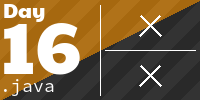
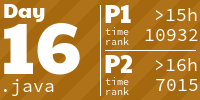
day 20

diff --git a/AoCTiles/.aoc_tiles_cache/leaderboard2022.html b/AoCTiles/.aoc_tiles_cache/leaderboard2022.html
@@ -88,15 +88,22 @@ If you'd like to hang out, I'm @ericwastl on Twitter.
 
 -->
 <body>
-<header><div><h1 class="title-global"><a href="/">Advent of Code</a></h1><nav><ul><li><a href="/2022/about">[About]</a></li><li><a href="/2022/events">[Events]</a></li><li><a href="https://teespring.com/stores/advent-of-code" target="_blank">[Shop]</a></li><li><a href="/2022/settings">[Settings]</a></li><li><a href="/2022/auth/logout">[Log Out]</a></li></ul></nav><div class="user">slawekgrzegorzewski <span class="star-count">28*</span></div></div><div><h1 class="title-event">&nbsp;<span class="title-event-wrap">{&apos;year&apos;:</span><a href="/2022">2022</a><span class="title-event-wrap">}</span></h1><nav><ul><li><a href="/2022">[Calendar]</a></li><li><a href="/2022/support">[AoC++]</a></li><li><a href="/2022/sponsors">[Sponsors]</a></li><li><a href="/2022/leaderboard">[Leaderboard]</a></li><li><a href="/2022/stats">[Stats]</a></li></ul></nav></div></header>
+<header><div><h1 class="title-global"><a href="/">Advent of Code</a></h1><nav><ul><li><a href="/2022/about">[About]</a></li><li><a href="/2022/events">[Events]</a></li><li><a href="https://teespring.com/stores/advent-of-code" target="_blank">[Shop]</a></li><li><a href="/2022/settings">[Settings]</a></li><li><a href="/2022/auth/logout">[Log Out]</a></li></ul></nav><div class="user">slawekgrzegorzewski <span class="star-count">42*</span></div></div><div><h1 class="title-event">&nbsp;<span class="title-event-wrap">{&apos;year&apos;:</span><a href="/2022">2022</a><span class="title-event-wrap">}</span></h1><nav><ul><li><a href="/2022">[Calendar]</a></li><li><a href="/2022/support">[AoC++]</a></li><li><a href="/2022/sponsors">[Sponsors]</a></li><li><a href="/2022/leaderboard">[Leaderboard]</a></li><li><a href="/2022/stats">[Stats]</a></li></ul></nav></div></header>
 
 <div id="sidebar">
-<div id="sponsor"><div class="quiet">Our <a href="/2022/sponsors">sponsors</a> help make Advent of Code possible:</div><div class="sponsor"><a href="https://careers.bankofamerica.com/" target="_blank" onclick="if(ga)ga('send','event','sponsor','sidebar',this.href);" rel="noopener">Bank of America</a> - We use technology, models and data to make financial lives better for our clients and communities.</div></div>
+<div id="sponsor"><div class="quiet">Our <a href="/2022/sponsors">sponsors</a> help make Advent of Code possible:</div><div class="sponsor"><a href="https://www.bjss.com/" target="_blank" onclick="if(ga)ga('send','event','sponsor','sidebar',this.href);" rel="noopener">BJSS</a> - Our people are a team of problem solvers, experienced in evolving technologies and delivering world-class technology solutions.</div></div>
 </div><!--/sidebar-->
 
 <main>
 <article><p>These are your personal leaderboard statistics.  <em>Rank</em> is your position on that leaderboard: 1 means you were the first person to get that star, 2 means the second, 100 means the 100th, etc.  <em>Score</em> is the number of points you got for that rank: 100 for 1st, 99 for 2nd, ..., 1 for 100th, and 0 otherwise.</p><pre>      <span class="leaderboard-daydesc-first">--------Part 1--------</span>   <span class="leaderboard-daydesc-both">--------Part 2--------</span>
 Day   <span class="leaderboard-daydesc-first">    Time   Rank  Score</span>   <span class="leaderboard-daydesc-both">    Time   Rank  Score</span>
+ 21   00:39:55   3455      0   01:07:47   2079      0
+ 20       &gt;24h  14775      0       &gt;24h  14027      0
+ 19   08:42:59   4324      0       &gt;24h   8226      0
+ 18   03:54:18   7512      0   06:01:21   6769      0
+ 17   01:58:36   2914      0   03:49:49   2295      0
+ 16   15:20:48  10932      0   16:47:02   7015      0
+ 15   01:07:59   4561      0   02:40:43   4343      0
  14   00:55:39   4213      0   01:29:05   5220      0
  13   01:14:10   5020      0   01:23:55   4578      0
  12   01:15:26   5219      0   01:40:54   5809      0

diff --git a/src/main/java/com/adventofcode/day20/CircularListElement.java b/src/main/java/com/adventofcode/day20/CircularListElement.java
@@ -31,7 +31,24 @@ public class CircularListElement {
         return this;
     }
 
-    public void moveNext() {
+    public void moveNext(long steps) {
+        for (long i = 0; i < steps; i++) {
+            moveNextSingle();
+        }
+    }
+
+    public void moveBack(long steps) {
+        for (long i = 0; i < steps; i++) {
+            moveBackSingle();
+        }
+    }
+
+    public void move(long steps) {
+        if (steps > 0) moveNext(steps);
+        if (steps < 0) moveBack(-steps);
+    }
+
+    private void moveNextSingle() {
         CircularListElement previous = previous();
         CircularListElement next = next();
         CircularListElement nextNext = next().next();
@@ -44,7 +61,7 @@ public class CircularListElement {
         nextNext.setPrevious(this);
     }
 
-    public void moveBack() {
+    private void moveBackSingle() {
         CircularListElement previousPrevious = previous().previous();
         CircularListElement previous = previous();
         CircularListElement next = next();
@@ -55,5 +72,13 @@ public class CircularListElement {
         previous.setPrevious(this);
         previous.setNext(next);
         next.setPrevious(previous);
+    }
+
+    public CircularListElement skipNext(int steps) {
+        CircularListElement result = this;
+        for (int i = 0; i < steps; i++) {
+            result = result.next();
+        }
+        return result;
     }
 }

diff --git a/src/main/java/com/adventofcode/day20/CircularList.java b/src/main/java/com/adventofcode/day20/CircularList.java
@@ -21,16 +21,7 @@ public class CircularList {
 
     public void mix() {
         for (CircularListElement circularListElement : elements) {
-            long steps = Math.abs(circularListElement.value()) % (elements.size() - 1);
-            if (circularListElement.value() > 0) {
-                for (int i = 0; i < steps; i++) {
-                    circularListElement.moveNext();
-                }
-            } else {
-                for (int i = 0; i < steps; i++) {
-                    circularListElement.moveBack();
-                }
-            }
+            circularListElement.move(circularListElement.value() % (elements.size() - 1));
         }
     }
 
@@ -38,9 +29,7 @@ public class CircularList {
         CircularListElement circularListElement = elements.stream().filter(e -> e.value() == 0).findFirst().orElseThrow();
         long sum = 0;
         for (int i = 0; i < 3; i++) {
-            for (int j = 0; j < 1000; j++) {
-                circularListElement = circularListElement.next();
-            }
+            circularListElement = circularListElement.skipNext(1000);
             sum += circularListElement.value();
         }
         return sum;

diff --git a/src/main/java/com/adventofcode/Day20.java b/src/main/java/com/adventofcode/Day20.java
@@ -16,13 +16,13 @@ public class Day20 {
     }
 
     long part1() throws IOException {
-        CircularList circularList = CircularList.copyOf(numbers.stream().map(NumberWrapper::value).map(i -> (long) i).collect(Collectors.toList()));
+        CircularList circularList = CircularList.copyOf(numbers.stream().map(NumberWrapper::value).collect(Collectors.toList()));
         circularList.mix();
         return circularList.sum();
     }
 
     long part2() throws IOException {
-        CircularList circularList = CircularList.copyOf(numbers.stream().map(NumberWrapper::value).map(i -> (long) i * 811589153L).collect(Collectors.toList()));
+        CircularList circularList = CircularList.copyOf(numbers.stream().map(NumberWrapper::value).map(l -> l * 811589153L).collect(Collectors.toList()));
         for (int i = 0; i < 10; i++) {
             circularList.mix();
         }

diff --git a/src/main/java/com/adventofcode/input/Input.java b/src/main/java/com/adventofcode/input/Input.java
@@ -177,7 +177,7 @@ public class Input {
     }
 
     public static List<NumberWrapper> day20() throws IOException {
-        return getInputFromFile("/day20").stream().map(Integer::parseInt).map(NumberWrapper::new).collect(Collectors.toList());
+        return getInputFromFile("/day20").stream().map(Long::parseLong).map(NumberWrapper::new).collect(Collectors.toList());
     }
 
     public static Map<String, Expression> day21() throws IOException {

diff --git a/src/main/java/com/adventofcode/day20/NumberWrapper.java b/src/main/java/com/adventofcode/day20/NumberWrapper.java
@@ -1,10 +1,9 @@
 package com.adventofcode.day20;
 
-public record NumberWrapper(int value) {
+public record NumberWrapper(long value) {
 
     @Override
     public String toString() {
         return String.valueOf(value);
-
     }
 }

diff --git a/README.md b/README.md
@@ -1,6 +1,6 @@
 <!-- AOC TILES BEGIN -->
 <h1 align="center">
-  2022 - 28 ⭐
+  2022 - 42 ⭐
 </h1>
 <a href="java">
   <img src="AoCTiles/media2022/2022/01.png" width="161px">
